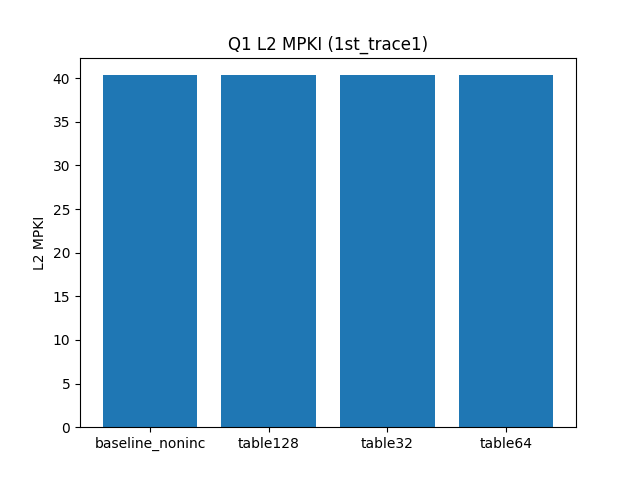
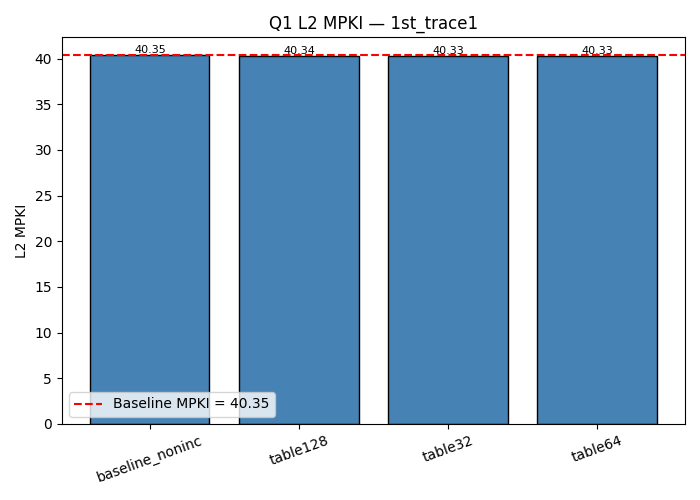
Generated all the plots

diff --git a/generate_plots.py b/generate_plots.py
@@ -1,0 +1,161 @@
+import pandas as pd
+import matplotlib.pyplot as plt
+import os
+
+# -------------------------------------------------------------------
+# Load parsed data
+# -------------------------------------------------------------------
+df = pd.read_csv("outputs_parsed_all.csv")
+
+# Create output dir for plots
+os.makedirs("plots", exist_ok=True)
+
+# Helper function: calculate speedup
+def calc_speedup(ipc, baseline_ipc):
+    return ipc / baseline_ipc if baseline_ipc != 0 else 0
+
+# Common plotting helper
+def plot_bar(x, y, ylabel, title, filename, baseline_value=None, baseline_label=None, annotate=False):
+    plt.figure(figsize=(7, 5))
+    bars = plt.bar(x, y, color="steelblue", edgecolor="black")
+    plt.title(title)
+    plt.ylabel(ylabel)
+    plt.xticks(rotation=20)
+
+    # Add annotations above bars
+    if annotate:
+        for bar in bars:
+            plt.text(bar.get_x() + bar.get_width()/2, bar.get_height(), f"{bar.get_height():.2f}",
+                     ha='center', va='bottom', fontsize=8)
+
+    # Add horizontal red line for baseline reference
+    if baseline_value is not None:
+        plt.axhline(y=baseline_value, color='red', linestyle='--', linewidth=1.5,
+                    label=f'{baseline_label or "Baseline"} = {baseline_value:.2f}')
+        plt.legend()
+
+    plt.tight_layout()
+    plt.savefig(filename)
+    plt.close()
+
+
+# -------------------------------------------------------------------
+# Q1: Offset Prefetcher (Non-Inclusive) — compare all table sizes
+# -------------------------------------------------------------------
+print("📊 Generating Q1 plots...")
+q1_traces = sorted([t for t in df['trace_folder'].unique() if t.startswith("1st_trace")])
+
+for trace in q1_traces:
+    sub = df[df['trace_folder'] == trace]
+    base = sub[sub['variant'] == "baseline_noninc"]
+    if base.empty:
+        continue
+    base_ipc = base['ipc'].values[0]
+    base_mpki = base['l2_mpki'].values[0]
+
+    variants = ["baseline_noninc", "table32", "table64", "table128"]
+    sub = sub[sub['variant'].isin(variants)]
+
+    # Speedup vs baseline
+    speedups = [calc_speedup(ipc, base_ipc) for ipc in sub['ipc']]
+    plot_bar(sub['variant'], speedups, "Speedup (IPC / Baseline IPC)",
+             f"Q1 Speedup — {trace}",
+             f"plots/q1_speedup_{trace}.png",
+             baseline_value=1.0, baseline_label="Non-Inclusive", annotate=True)
+
+    # MPKI comparison
+    plot_bar(sub['variant'], sub['l2_mpki'], "L2 MPKI",
+             f"Q1 L2 MPKI — {trace}",
+             f"plots/q1_mpki_{trace}.png",
+             baseline_value=base_mpki, baseline_label="Baseline MPKI", annotate=True)
+
+    # IPC comparison
+    plot_bar(sub['variant'], sub['ipc'], "IPC",
+             f"Q1 IPC — {trace}",
+             f"plots/q1_ipc_{trace}.png",
+             baseline_value=base_ipc, baseline_label="Baseline IPC", annotate=True)
+
+
+# -------------------------------------------------------------------
+# Q2: Exclusive vs Non-Inclusive Comparison
+# -------------------------------------------------------------------
+print("📊 Generating Q2 plots...")
+q2_traces = sorted([t for t in df['trace_folder'].unique() if t.startswith("2nd_trace")])
+
+for trace in q2_traces:
+    sub = df[df['trace_folder'] == trace]
+    variants = ["baseline_noninc", "baseline_exclusive"]
+    sub = sub[sub['variant'].isin(variants)]
+
+    if sub.empty:
+        continue
+
+    base_ipc = sub[sub['variant'] == "baseline_noninc"]['ipc'].values[0]
+    base_mpki = sub[sub['variant'] == "baseline_noninc"]['l2_mpki'].values[0]
+    excl_ipc = sub[sub['variant'] == "baseline_exclusive"]['ipc'].values[0]
+
+    # IPC comparison
+    plot_bar(sub['variant'], sub['ipc'], "IPC",
+             f"Q2 IPC Comparison — {trace}",
+             f"plots/q2_ipc_cmp_{trace}.png",
+             baseline_value=base_ipc, baseline_label="Non-Inclusive IPC", annotate=True)
+
+    # MPKI comparison
+    plot_bar(sub['variant'], sub['l2_mpki'], "L2 MPKI",
+             f"Q2 L2 MPKI Comparison — {trace}",
+             f"plots/q2_mpki_cmp_{trace}.png",
+             baseline_value=base_mpki, baseline_label="Non-Inclusive MPKI", annotate=True)
+
+    # Speedup of Exclusive vs Non-Inclusive
+    speedup = calc_speedup(excl_ipc, base_ipc)
+    plot_bar(["Exclusive vs Non-Inclusive"], [speedup], "Speedup",
+             f"Q2 Speedup — {trace}",
+             f"plots/q2_speedup_{trace}.png",
+             baseline_value=1.0, baseline_label="Non-Inclusive", annotate=True)
+
+
+# -------------------------------------------------------------------
+# Q3: Exclusive Prefetcher — compare with both baselines
+# -------------------------------------------------------------------
+print("📊 Generating Q3 plots...")
+q3_traces = sorted([t for t in df['trace_folder'].unique() if t.startswith("3rd_trace")])
+
+for trace in q3_traces:
+    sub = df[df['trace_folder'] == trace]
+    if sub.empty:
+        continue
+
+    base_noninc_ipc = sub[sub['variant'] == "baseline_noninc"]['ipc'].values[0]
+    base_excl_ipc = sub[sub['variant'] == "baseline_exclusive"]['ipc'].values[0]
+    base_noninc_mpki = sub[sub['variant'] == "baseline_noninc"]['l2_mpki'].values[0]
+    base_excl_mpki = sub[sub['variant'] == "baseline_exclusive"]['l2_mpki'].values[0]
+
+    pref_sub = sub[sub['variant'].str.startswith("table")]
+
+    # Speedup vs Non-Inclusive Baseline
+    speedups_noninc = [calc_speedup(ipc, base_noninc_ipc) for ipc in pref_sub['ipc']]
+    plot_bar(pref_sub['variant'], speedups_noninc, "Speedup (vs Non-Inclusive)",
+             f"Q3 Speedup vs Non-Inclusive Baseline — {trace}",
+             f"plots/q3_speedup_noninc_{trace}.png",
+             baseline_value=1.0, baseline_label="Non-Inclusive", annotate=True)
+
+    # Speedup vs Exclusive Baseline
+    speedups_excl = [calc_speedup(ipc, base_excl_ipc) for ipc in pref_sub['ipc']]
+    plot_bar(pref_sub['variant'], speedups_excl, "Speedup (vs Exclusive)",
+             f"Q3 Speedup vs Exclusive Baseline — {trace}",
+             f"plots/q3_speedup_excl_{trace}.png",
+             baseline_value=1.0, baseline_label="Exclusive", annotate=True)
+
+    # MPKI comparison
+    plot_bar(pref_sub['variant'], pref_sub['l2_mpki'], "L2 MPKI",
+             f"Q3 L2 MPKI — {trace}",
+             f"plots/q3_mpki_{trace}.png",
+             baseline_value=base_excl_mpki, baseline_label="Exclusive MPKI", annotate=True)
+
+    # IPC comparison
+    plot_bar(pref_sub['variant'], pref_sub['ipc'], "IPC",
+             f"Q3 IPC — {trace}",
+             f"plots/q3_ipc_{trace}.png",
+             baseline_value=base_excl_ipc, baseline_label="Exclusive IPC", annotate=True)
+
+print("✅ All plots generated in 'plots/' folder successfully with red baseline lines!")
